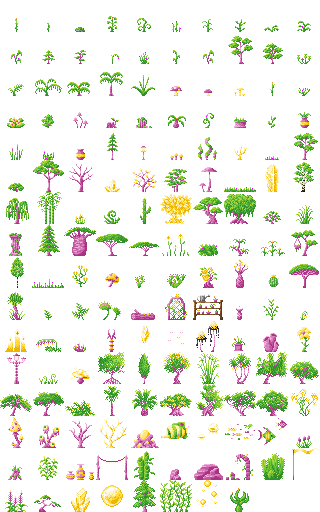
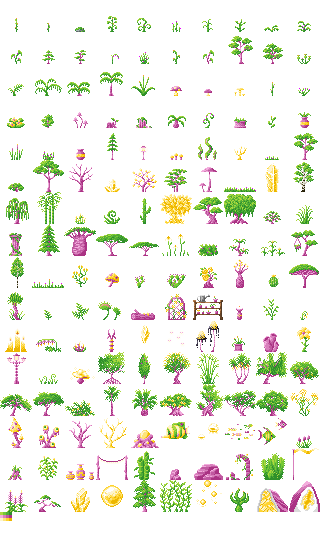
Add geodes by Rat & Reaver

diff --git a/src/gen_plant.js b/src/gen_plant.js
@@ -191,11 +191,7 @@ var all_foliage = [
         {"artist": "Oranitha", "name": "alien cactus", "categories": ["succulent"], "source": "https://i.imgur.com/LlmBQcI.png"},
         {"artist": "Rat & Reaver of the Bearskull collective", "name": "grand geode", "categories": ["rock"], "source": "https://i.imgur.com/IcEfMHF.png"},
         {"artist": "Rat & Reaver of the Bearskull collective", "name": "deep geode", "categories": ["rock"], "source": "https://i.imgur.com/cbnv85f.png"},
-        {"artist": "Oranitha", "name": "I AM ERROR", "categories": [], "source": "https://i.imgur.com/U1qlGFl.png"},
-        {"artist": "Rat & Reaver of the Bearskull collective", "name": "firepit", "categories": ["construct"], "source": "https://i.imgur.com/PCVSiPQ.png"},
-        {"artist": "Rat & Reaver of the Bearskull collective", "name": "leafa", "categories": ["foliage"], "source": "https://i.imgur.com/hY0zErA.png"},
-        {"artist": "Rat & Reaver of the Bearskull collective", "name": "scarecrow", "categories": ["rare"], "source": "https://i.imgur.com/9fgLOCo.png"},
-        {"artist": "Rat & Reaver of the Bearskull collective", "name": "signpost", "categories": ["construct"], "source": "https://i.imgur.com/UeZhEnu.png"}
+        {"artist": "Oranitha", "name": "I AM ERROR", "categories": [], "source": "https://i.imgur.com/U1qlGFl.png"}
     ]
     // END all_foliage
 

diff --git a/gen_plant.js b/gen_plant.js
@@ -84,7 +84,11 @@ all_foliage = ["https://i.imgur.com/PabdLnL.png", "https://i.imgur.com/WN2m2Aa.p
                "https://i.imgur.com/S01WpzA.png", "https://i.imgur.com/BKrhChN.png", "https://i.imgur.com/g07biTg.png",
                "https://i.imgur.com/ieCLRr4.png", "https://i.imgur.com/vrsojTx.png", "https://i.imgur.com/JdBQXD9.png",
                "https://i.imgur.com/yHAyHer.png", "https://i.imgur.com/te0LiY6.png", "https://i.imgur.com/DVXz8Nr.png",
-               "https://i.imgur.com/snN8fJY.png", "https://i.imgur.com/wNf7FXA.png"];
+               "https://i.imgur.com/snN8fJY.png", "https://i.imgur.com/wNf7FXA.png",
+            
+               "https://i.imgur.com/mrELvLA.png",  "https://i.imgur.com/okGXTzn.png", "https://i.imgur.com/nLv8jTq.png",
+               "https://i.imgur.com/pn3p8UY.png", "https://i.imgur.com/kyORogL.png", "https://i.imgur.com/LlmBQcI.png",
+               "https://i.imgur.com/IcEfMHF.png", "https://i.imgur.com/cbnv85f.png", "https://i.imgur.com/U1qlGFl.png"];
 
 var all_named = {"nigel": "https://i.imgur.com/zYolkmE.png", "vine_supporter": "https://i.imgur.com/72uDqMq.png", "root_supporter": "https://i.imgur.com/y9eN0Ae.png",
              "bone_supporter": "https://i.imgur.com/EzL4aw0.png", "stone_supporter": "https://i.imgur.com/xyB8zjm.png",

diff --git a/build_spritesheets.py b/build_spritesheets.py
@@ -15,7 +15,7 @@ OUTPATH = "images"
 
 
 fetch_out = ["all_foliage",
-             #"reformatted_named"
+             "reformatted_named"
             ]
 
 

diff --git a/CONTRIBUTORS.md b/CONTRIBUTORS.md
@@ -52,6 +52,8 @@ Frigate: Waving pennant (149)
 
 HurricaneWinds: Lupine (150)
 
+Rat & Reaver of the Bearskull Collective: grand geode (158), deep geode (159)
+
 
 Other Assets
 ------------
